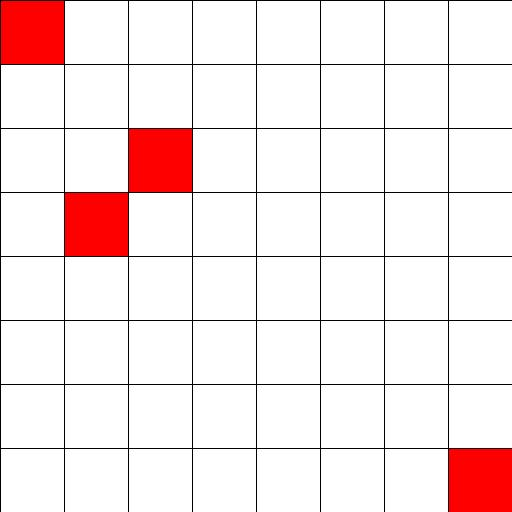
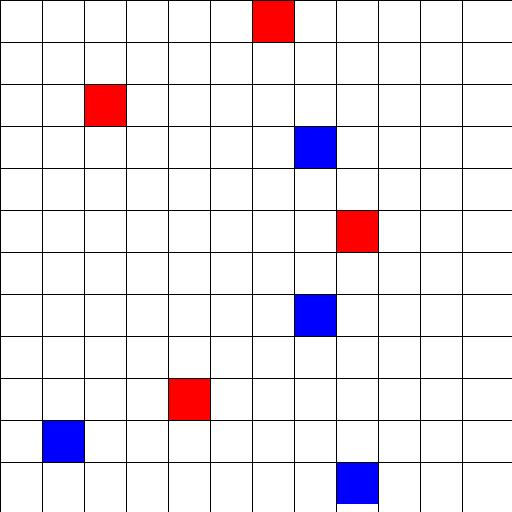
Added one more mine type

diff --git a/script.py b/script.py
@@ -15,9 +15,10 @@ from PIL import Image                           # python image lib
 import numpy as np
 
 #################### GLOBAL VARIABLES
-MINE_COLOR      = (255, 0, 0)                   # red
-WIDTH           = 8                             # count of squares
-LENGTH          = 8                             # count of squares
+SUR_MINE_COLOR  = (255, 0, 0)                   # red
+BUR_MINE_COLOR  = (0, 0, 255)                   # blue
+FIELD_WIDTH     = 12                             # count of squares
+FIELD_LENGTH    = 12                             # count of squares
 
 IMAGE_PATH      = "Mine_Map.jpg"
 IMAGE_WIDTH     = 512
@@ -27,44 +28,52 @@ rgb_array = np.zeros((IMAGE_WIDTH, IMAGE_HEIGHT, 3), 'uint8')
 rgb_array[...] = 255                            # white background
 
 #################### FUNCTION
-def draw_image(mine_locations):
-    for location in mine_locations:
-        y = ord(location[0])-ord('A') + 1
-        x = int(location[1:])
-        draw_pixels(x,y)
+def draw_image(sur_mine_loc , bur_mine_loc):
+    for location in sur_mine_loc:
+        x = ord(location[0])-ord('A') + 1               # x and y swapped so that it can work properly
+        y = int(location[1:])
+        draw_pixels(x, y, SUR_MINE_COLOR)
+
+    for location in bur_mine_loc:
+        x = ord(location[0])-ord('A') + 1
+        y = int(location[1:])
+        draw_pixels(x, y, BUR_MINE_COLOR)
+
 
     draw_lines()
     img = Image.fromarray(rgb_array)
     img.save(IMAGE_PATH)
 
 
-def draw_pixels(x,y):                           # coordinates of mine square
+def draw_pixels(x, y, color):                           # coordinates of mine square
     #pixel coordinates
-    x_start_pixel = (x-1) * ( IMAGE_WIDTH // WIDTH )
-    x_end_pixel = x * ( IMAGE_WIDTH // WIDTH )
+    x_start_pixel = (x-1) * ( IMAGE_WIDTH // FIELD_WIDTH )
+    x_end_pixel = x * ( IMAGE_WIDTH // FIELD_WIDTH )
 
-    y_start_pixel = (y-1) * ( IMAGE_HEIGHT // LENGTH )
-    y_end_pixel = y * ( IMAGE_HEIGHT // LENGTH )
+    y_start_pixel = (y-1) * ( IMAGE_HEIGHT // FIELD_LENGTH )
+    y_end_pixel = y * ( IMAGE_HEIGHT // FIELD_LENGTH )
 
     # red channel
-    rgb_array[x_start_pixel:x_end_pixel , y_start_pixel:y_end_pixel, 0] = MINE_COLOR[0]
+    rgb_array[x_start_pixel:x_end_pixel , y_start_pixel:y_end_pixel, 0] = color[0]
 
     # green channel
-    rgb_array[x_start_pixel:x_end_pixel , y_start_pixel:y_end_pixel, 1] = MINE_COLOR[1]
+    rgb_array[x_start_pixel:x_end_pixel , y_start_pixel:y_end_pixel, 1] = color[1]
 
     # blue channel
-    rgb_array[x_start_pixel:x_end_pixel , y_start_pixel:y_end_pixel, 2] = MINE_COLOR[2]
+    rgb_array[x_start_pixel:x_end_pixel , y_start_pixel:y_end_pixel, 2] = color[2]
 
 
 def draw_lines():
     # horizontal
-    for y in range(0, LENGTH ):
-        rgb_array[: , y * ( IMAGE_HEIGHT // LENGTH ) , :] = 0
+    for y in range(0, FIELD_LENGTH ):
+        rgb_array[: , y * ( IMAGE_HEIGHT // FIELD_LENGTH ) , :] = 0
 
     # vertical
-    for x in range(0, WIDTH ):
-        rgb_array[x * ( IMAGE_WIDTH // WIDTH ) , : , :] = 0
+    for x in range(0, FIELD_WIDTH ):
+        rgb_array[x * ( IMAGE_WIDTH // FIELD_WIDTH ) , : , :] = 0
 
 #################### Main
 if __name__ == '__main__':
-    draw_image(("A1", "B4" , "C3" , "H8"))
+    draw_image(("A7" , "F9" , "C3" , "J5"), ("K2" , "D8", "H8" , "L9"))
+
+    #  , "B4"
